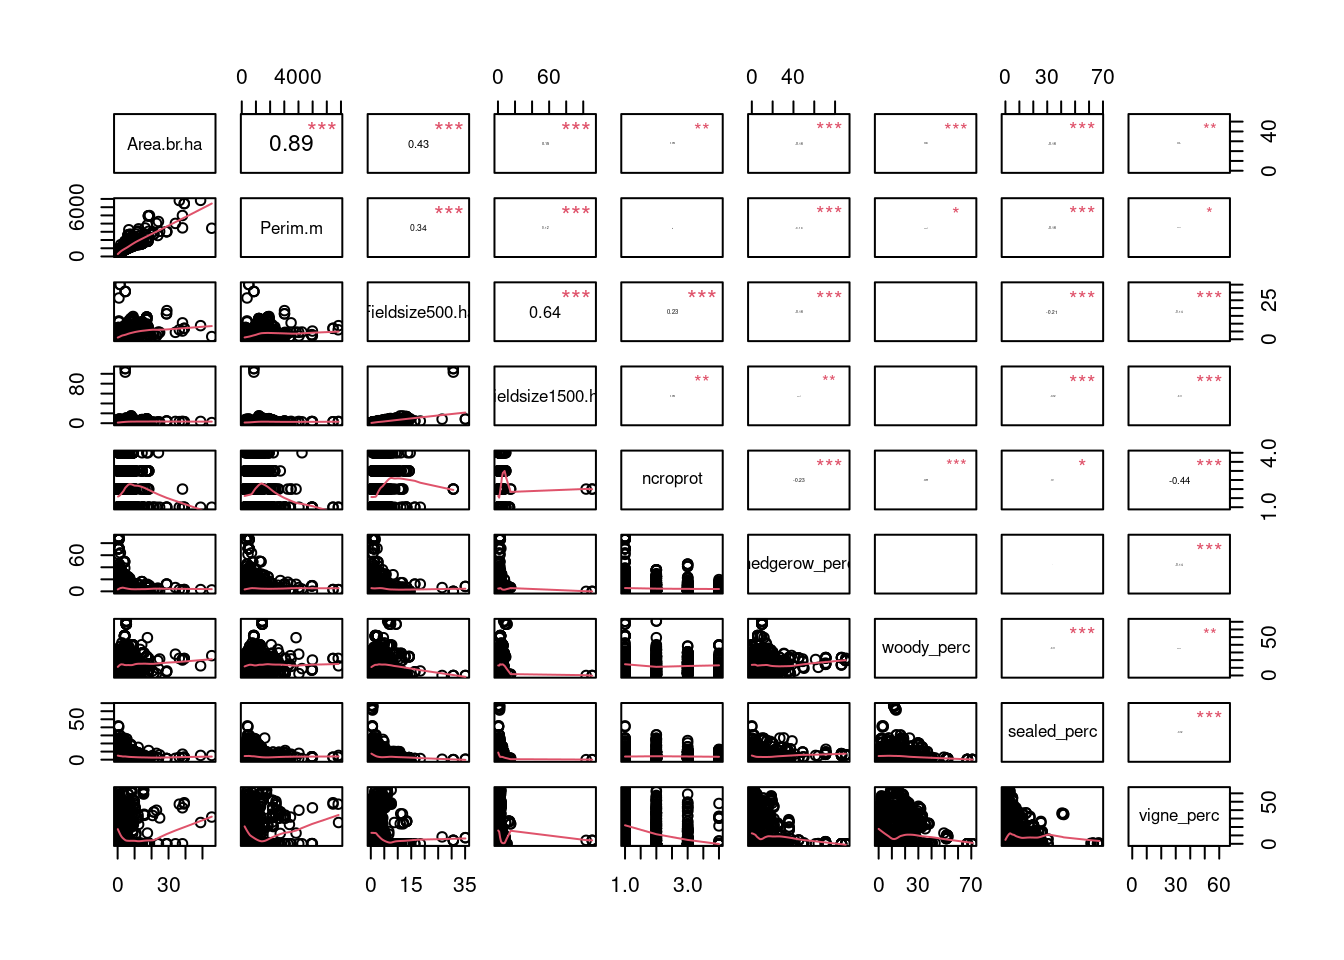
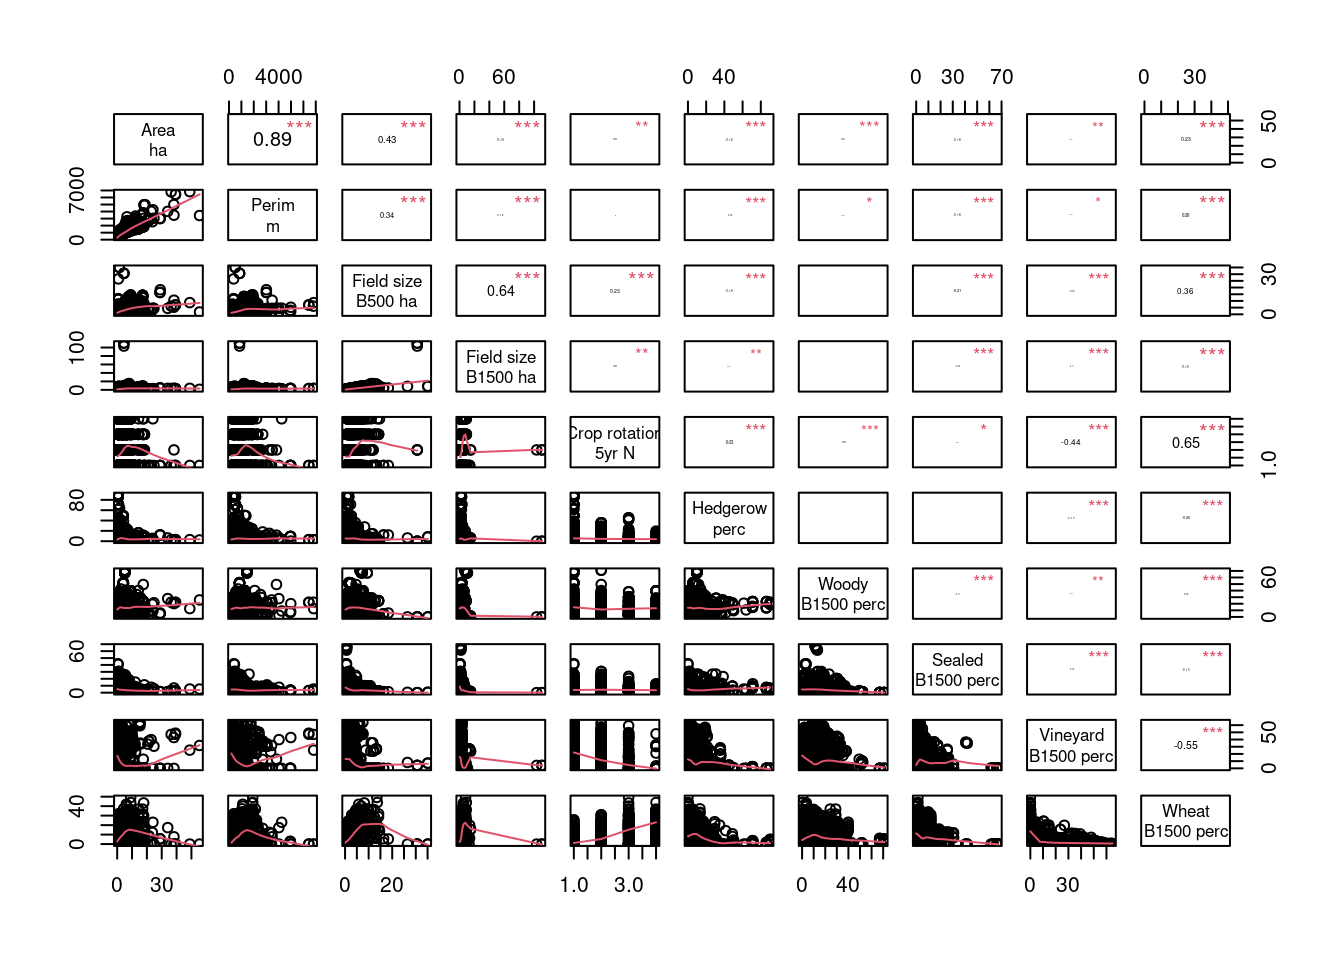
improve 10_summary_FRCH

diff --git a/docs/index.html b/docs/index.html
@@ -99,8 +99,10 @@ ul.task-list li input[type="checkbox"] {
 <li><a href="https://funbiodiv.github.io/gis-diversification/analysis/06_haie.html">Comparaison des données sur les haies</a></li>
 <li><a href="https://funbiodiv.github.io/gis-diversification/analysis/07_fields_Toulouse.html">Identification des parcelles vers Toulouse</a></li>
 </ol>
-<p>Last calculation of metrics (FR+CH):<br>
-10. <a href="https://funbiodiv.github.io/gis-diversification/analysis/10_summary_FRCH.html">Summary 2</a></p>
+<p>Last calculation of metrics (FR+CH):</p>
+<ol start="10" type="1">
+<li><a href="https://funbiodiv.github.io/gis-diversification/analysis/10_summary_FRCH.html">Summary 2</a></li>
+</ol>
 
 
 </section>

diff --git a/docs/site_libs/Field_with_large_area-CSS-0.0.1/Field_with_large_area_home-button.css b/docs/site_libs/Field_with_large_area-CSS-0.0.1/Field_with_large_area_home-button.css
@@ -1,0 +1,3 @@
+.leaflet-bar button {background-color:#ffffff95;border:none;width:100%;height:20px;line-height:15px;font-size:85%;text-align:center;text-decoration:none;color:black;cursor:pointer;overflow-x:visible;overflow-y:hidden;opacity:0.25;background-position:50% 50%;background-repeat:no-repeat;display:inline-block} 
+
+ .leaflet-bar button:hover {background-color:#00ffff;text-decoration:underline;opacity:0.9}